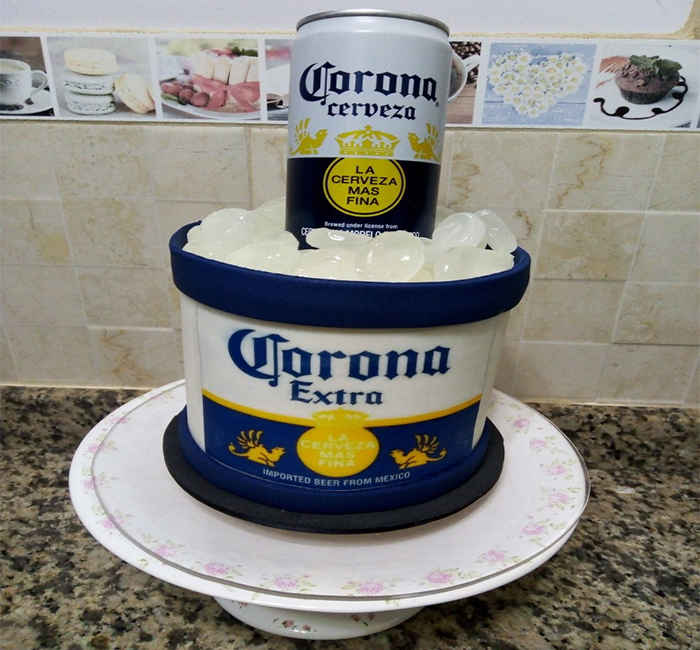
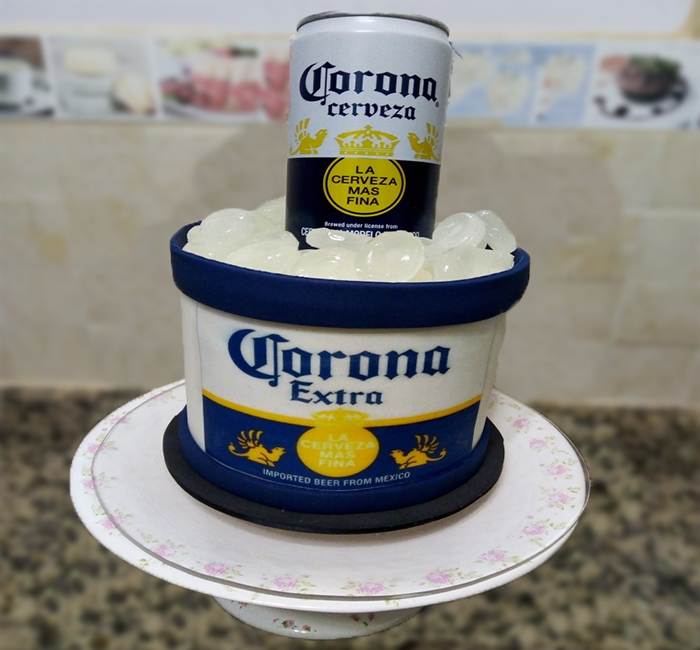
sumando galeria

diff --git a/Html/galeria.html b/Html/galeria.html
@@ -57,13 +57,18 @@
     <section class="section">
 
 
+    <div class="container-fluid my-5">
+<h4 class="text-center fw-bold display-2">Nuevos Rumbos <span class="text-danger">Pasteleria</span></h4>
+
+    </div>
+
         <div class="container">
             <div class="row g-3">
                 <div class="col-12 col-md-6 col-lg-4">
                     <div class="card">
                         <img src="../IMG/galeria1.jpg" alt="imagen" class="carousel.img">
                         <div class="card-body">
-                            <h5 class="card-title">Nombre de la torta</h5>
+                            <h5 class="card-title">Drip Cake</h5>
                             <p class="card-text">Lorem ipsum dolor sit amet consectetur adipisicing elit. Quibusdam,
                                 provident quaerat esse alias ad voluptates blanditiis assumenda, autem odio vero itaque
                                 ipsa quia veritatis! Harum commodi obcaecati quos rem odit.</p>
@@ -72,7 +77,7 @@
                 </div>
                 <div class="col-12 col-md-6 col-lg-4">
                     <div class="card">
-                        <img src="../IMG/galeria10.jpg" alt="imagen" class="carousel.img">
+                        <img src="../IMG/galeria10B.jpg" alt="imagen" class="carousel.img">
                         <div class="card-body">
                             <h5 class="card-title">Nombre de la torta</h5>
                             <p class="card-text">Lorem ipsum dolor sit amet consectetur adipisicing elit. Quibusdam,
@@ -116,7 +121,7 @@
                 </div>
                 <div class="col-12 col-md-6 col-lg-4">
                     <div class="card">
-                        <img src="../IMG/galeria15.jpg" alt="imagen" class="carousel.img">
+                        <img src="../IMG/galeria16.jpg" alt="imagen" class="carousel.img">
                         <div class="card-body">
                             <h5 class="card-title">Nombre de la torta</h5>
                             <p class="card-text">Lorem ipsum dolor sit amet consectetur adipisicing elit. Quibusdam,
